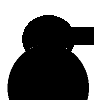
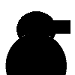
*dodana mozliwosc wplywania na szybkosc poruszania sie mobkow *dodana kolejna klasa mobka poruszającego sie szybciej ale z mnijsza iloscia hp *dodana klasa Gate majaca wykrywac kolizje mobka i odejmowac hp gracza

diff --git a/core/src/Scenes/Hud.java b/core/src/Scenes/Hud.java
@@ -22,25 +22,24 @@ private Viewport viewport;
 private Integer mobCounter;
 private  Integer score;
 private  Integer money;
-private float iloscZycia;
+private Integer hp;
 
 private MyGame ggame;
 
 Label mobCounterLabel;
 Label scoreValueLabel;
 Label moneyValueLabel;
+Label hpValueLabel;
 Label scoreLabel;
 Label mobLeft;
 Label moneyLeft;
-
+Label hpLeft;
 public Hud(SpriteBatch sb){
-    ggame = new MyGame();
+  //  ggame = new MyGame();
     mobCounter = ggame.enemies.size();
     score = 0;
     money = 100;
-
-
-
+    hp = 10;
 }
 
 public void AktualizujTekst(SpriteBatch sb)
@@ -55,21 +54,23 @@ public void AktualizujTekst(SpriteBatch sb)
     mobCounterLabel = new Label(String.format("%02d", mobCounter), new Label.LabelStyle(new BitmapFont(), Color.GREEN));
     scoreValueLabel = new Label(String.format("%06d", score),new Label.LabelStyle(new BitmapFont(), Color.GREEN));
     moneyValueLabel = new Label(String.format("%06d", money),new Label.LabelStyle(new BitmapFont(), Color.GREEN));
+    hpValueLabel = new Label(String.format("%06d", hp),new Label.LabelStyle(new BitmapFont(), Color.GREEN));
 
     scoreLabel = new Label("wynik to:",new Label.LabelStyle(new BitmapFont(), Color.GREEN));
     mobLeft = new Label("pozostalo przeciwnikow :",new Label.LabelStyle(new BitmapFont(), Color.GREEN));
     moneyLeft = new Label("pozostalo kasy :",new Label.LabelStyle(new BitmapFont(), Color.GREEN));
-
+    hpLeft = new Label("pozostalo hp :",new Label.LabelStyle(new BitmapFont(), Color.GREEN));
     table.add( scoreLabel).expandX().padTop(10);
     table.add( moneyLeft).expandX().padTop(10);
     table.add( mobLeft).expandX().padTop(10);
+    table.add(hpLeft).expandX().padTop(10);
 
     table.row();
 
     table.add( scoreValueLabel).expandX();
     table.add( moneyValueLabel).expandX();
     table.add( mobCounterLabel).expandX();
-
+    table.add( hpValueLabel).expandX();
     stage.addActor(table);
 }
 

diff --git a/core/src/com/mygdx/game/BaseEnemy.java b/core/src/com/mygdx/game/BaseEnemy.java
@@ -8,8 +8,7 @@ public class BaseEnemy {
     Texture duch;
     EnemyMoving enemyMoving;
 
-    private static int SPEED = 50;
-    private float speed;
+    protected static float SPEED = 1;
     private float dmg;
     private float hp;
     private float ManaBurn;
@@ -22,6 +21,6 @@ public class BaseEnemy {
 
     void draw(SpriteBatch batch) {
         enemyMoving.MoveEnemy();
-        batch.draw(duch, enemyMoving.GetXPos(), enemyMoving.GetYPos());   //Aktualizowanie pozycji przeciwnika
+        batch.draw(duch, (enemyMoving.GetXPos()* SPEED), (enemyMoving.GetYPos()*SPEED));   //Aktualizowanie pozycji przeciwnika
     }
 }

diff --git a/core/src/com/mygdx/game/MyGame.java b/core/src/com/mygdx/game/MyGame.java
@@ -25,6 +25,7 @@ public class MyGame extends Game {
 	public static List<BaseEnemy> enemies = new ArrayList<>();
 
 	private Tower tower;
+private Gate orb;
 
 	@Override
 	public void create () {
@@ -32,6 +33,7 @@ public class MyGame extends Game {
 		background = new Texture("background.png");
 
 	tower = new Tower();
+	orb = new Gate();
 	batch = new SpriteBatch();
 
 	setScreen( new PlayScreen(this));
@@ -49,7 +51,7 @@ public class MyGame extends Game {
 			enemy.draw(batch);
 		}
 		tower.draw(batch);
-
+orb.draw(batch);
 		batch.end();
 
 		if(Gdx.input.isKeyPressed(Input.Keys.SPACE))

diff --git a/core/src/com/mygdx/game/Gate.java b/core/src/com/mygdx/game/Gate.java
@@ -1,0 +1,20 @@
+package com.mygdx.game;
+
+import com.badlogic.gdx.graphics.Texture;
+import com.badlogic.gdx.graphics.g2d.SpriteBatch;
+
+public class Gate {
+
+    Texture orb = new Texture("orb.bmp");
+
+public Gate(){
+
+
+}
+    void draw(SpriteBatch batch) {
+
+        batch.draw(orb, 530, 400);
+        //batch.draw(pieceImg, positionOnScreen.x, positionOnScreen.y);
+    }
+
+}

diff --git a/core/src/com/mygdx/game/Player.java b/core/src/com/mygdx/game/Player.java
@@ -25,10 +25,17 @@ public class Player {
         this.money = money;
     }
 
+    public void setHp(Integer hp) {
+        this.hp = hp;
+    }
+
+    public Integer getHp() {
+        return hp;
+    }
     private Integer mobCounter;
     private  Integer score;
     private  Integer money;
-
+    private  Integer hp;
 
 
 }

diff --git a/core/src/com/mygdx/game/Tower.java b/core/src/com/mygdx/game/Tower.java
@@ -21,7 +21,7 @@ public class Tower {
 
     void draw(SpriteBatch batch) {
 
-        batch.draw(dzialo, 50, 100);
+        batch.draw(dzialo, 150, 100);
         //batch.draw(pieceImg, positionOnScreen.x, positionOnScreen.y);
     }
     boolean isMouseIn(GridPoint2 mousePos) {

diff --git a/core/src/com/mygdx/game/FastEnemy.java b/core/src/com/mygdx/game/FastEnemy.java
@@ -1,0 +1,5 @@
+package com.mygdx.game;
+
+public class FastEnemy extends  BaseEnemy{
+
+}
